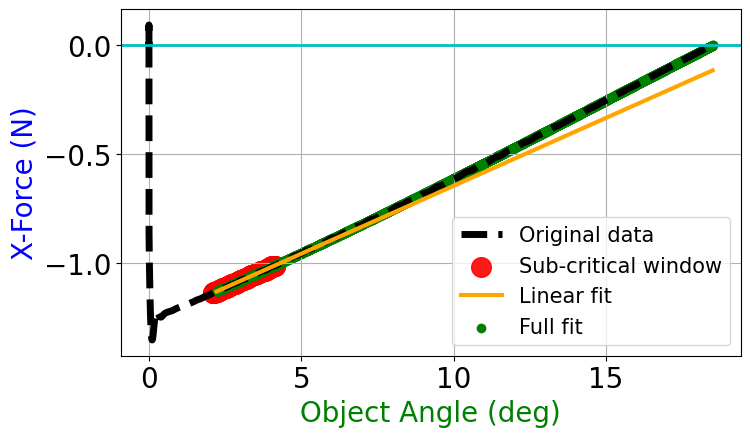
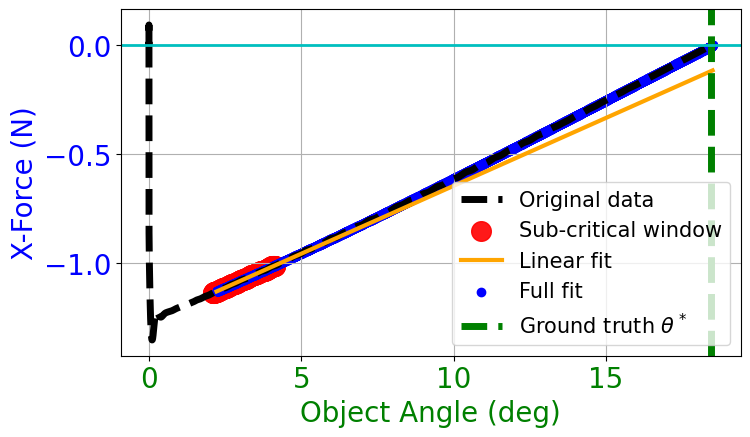
Matched experiment and simulation figures

diff --git a/analyze_experiment.py b/analyze_experiment.py
@@ -6,6 +6,7 @@ from scipy.interpolate import interp1d
 from scripts.utils.com_estimation import tau_app_model, tau_model, theta_from_tau, align_zeros
 from scipy.stats import linregress
 from scipy.optimize import curve_fit
+from mpl_toolkits.axes_grid1.inset_locator import inset_axes, mark_inset
 
 
 def read_csv(file_path, trim_rows=0):
@@ -152,8 +153,8 @@ print(f"\nGround truth from geometry:\ntheta*: {theta_star_gt:.2f} deg, zc = 0.1
 
 # ================ Plot the data ===================
 PLOT_RAW = False
-PLOT_XYZ = False
-PLOT_RELATIONSHIP = True
+PLOT_XYZ = True
+PLOT_RELATIONSHIP = False
 
 import matplotlib.ticker as ticker
 
@@ -183,7 +184,7 @@ if PLOT_XYZ:
     ax1.plot(time_trim, f_trim[:, 0], "b", linewidth=5, label='Push force (x)')
     ax1.plot(time_trim, f_trim[:, 1], "r", linewidth=5, label='Push force (y)')
     ax1.plot(time_trim, f_trim[:, 2], "m", linewidth=5, label='Push force (z)')
-    ax2.plot(time_trim, np.rad2deg(th_trim), color='g', linewidth=5, linestyle='-', label='Object angle')
+    ax2.plot(time_trim, np.rad2deg(th_trim), color='g', linewidth=5, linestyle='-.', label='Object angle')
     ax1.tick_params(axis='x', labelsize=20)
     ax1.tick_params(axis='y', labelcolor='b', labelsize=20)
     ax2.tick_params(axis='y', labelcolor='g', labelsize=20)
@@ -206,18 +207,43 @@ if PLOT_XYZ:
 
 if PLOT_RELATIONSHIP:
     # NOTE: This is plotting the primary pushing force, NOT the magnitude.
-    fig, ax = plt.subplots(figsize=(9, 4.5))
-    ax.axhline(0, color='c', linewidth=2)
+    # Now plot force (in primary tipping axis) versus payload pitch
+    fig, ax = plt.subplots(figsize=(8, 4.5))
+    ax.axhline(0, color='c') # Horizontal line at zero for reference
     ax.plot(np.rad2deg(th_trim[:f0_idx+100]), f_trim[:f0_idx+100, 0], \
-            color='k', linewidth=5, label='Push force (x)', fontsize=20)
-    ax.set_xlabel('Object Angle (degrees)', color='g', fontsize=20)
-    ax.set_ylabel('X-Force Magnitude (N)', color='b', fontsize=20)
-    ax.set_title('Primary Axis (X) Force vs. Object Angle')
-    # ax3.set_xlim([-1, 25])
-    # ax3.set_ylim([-0.05, fmax+0.2])
-    ax.axvline(theta_star_gt, color='g', linestyle='--', linewidth=2, label=r'Ground Truth $\theta_*$')
-    ax.legend()
+            color='k', linewidth=5, label='Push force (x)')  # Plot the x-component of the force (up to 100 indices after zero-crossing)
+    ax.set_ylabel("X-Force (N)", color='b', fontsize=20)
+    ax.set_xlabel("Object Angle (deg)", color='g', fontsize=20)
+    ax.axvline(theta_star_gt, color='g', linestyle='--', linewidth=5, label=r'Ground truth $\theta^*$')
+    ax.scatter(np.rad2deg(theta_star_calc), f_trim[f0_idx,0], s=500, marker='*', color='r', label=r'Calculated $\theta^*$', zorder=2)
+    
     ax.grid(True)
+    fig.legend(loc='upper left', fontsize=15, bbox_to_anchor=(0.2, 0.85)) # # Now also plot a * at zero-crossing
+
+    ax.tick_params(axis='y', labelcolor='b', labelsize=20)
+    ax.tick_params(axis='x', labelcolor='g', labelsize=20)
+
+    # ======= Same figure, add zoomed-in view around theta* ========
+    # Choose x-lims around theta*
+    x0 = np.rad2deg(max(th_trim.min(), theta_star_calc - np.deg2rad(0.25)))
+    x1 = np.rad2deg(min(th_trim.max(), theta_star_calc + np.deg2rad(0.25)))
+    # y-lims around bottom 10% of force
+    y0 = -0.05
+    y1 = 0.025
+
+    # axins = inset_axes(ax3, width="30%", height="30%", loc='upper left')#, borderpad=2.2)
+    axins = inset_axes(ax, width="30%", height="30%", loc='lower right', borderpad=2.2)
+    axins.plot(np.rad2deg(th_trim), f_trim[:,0], color='k', linewidth=5)  # Plot the x-component of the force
+    axins.scatter(np.rad2deg(theta_star_calc), f_trim[f0_idx,0], s=500, marker='*', color='r', label=r'Calculated $\theta^*$', zorder=3)
+    axins.axvline(theta_star_gt, color='g', linestyle='--', linewidth=5, label=r'Ground truth $\theta^*$')
+    axins.axhline(0, color='c', linewidth=2) # Horizontal line at zero for reference
+    axins.set_xlim(x0, x1)
+    axins.set_ylim(y0, y1)
+    axins.grid(True)
+    axins.tick_params(axis='y', labelsize=15)
+    axins.tick_params(axis='x', labelsize=15)
+    mark_inset(ax, axins, loc1=2, loc2=4, fc="none", ec="0.5", linewidth=3)
+    plt.tight_layout()
     plt.show()
 
 
@@ -344,14 +370,17 @@ if USE_X_ONLY:
 
     ax.plot(np.rad2deg(th_full), -f_app_lin, color='orange', linewidth=3, label='Sub-crit linear fit')
     ## FOR FUN, plot ALL theta and force
-    ax.scatter(np.rad2deg(th_full), -f_app_full[:,0], color='g', label='Full fit')
+    ax.scatter(np.rad2deg(th_full), -f_app_full[:,0], color='b', label='Full fit')
+    ax.axvline(theta_star_gt, color='g', linestyle='--', linewidth=5, label=r'Ground truth $\theta^*$')
 
     ax.axhline(0, color='c', linewidth=2) # Horizontal line at zero for reference
     ax.set_ylabel("X-Force (N)", color='b', fontsize=20)
     ax.set_xlabel("Object Angle (degrees)", color='g', fontsize=20)
     ax.legend(loc='lower right', fontsize=15)
     # Make the tick marks bigger
-    ax.tick_params(axis='both', which='major', labelsize=15)
+    # ax.tick_params(axis='both', which='major', )
+    ax.tick_params(axis='x', labelcolor='g', labelsize=20)
+    ax.tick_params(axis='y', labelcolor='b', labelsize=20)
     ax.grid(True)
     plt.tight_layout()
     plt.show()